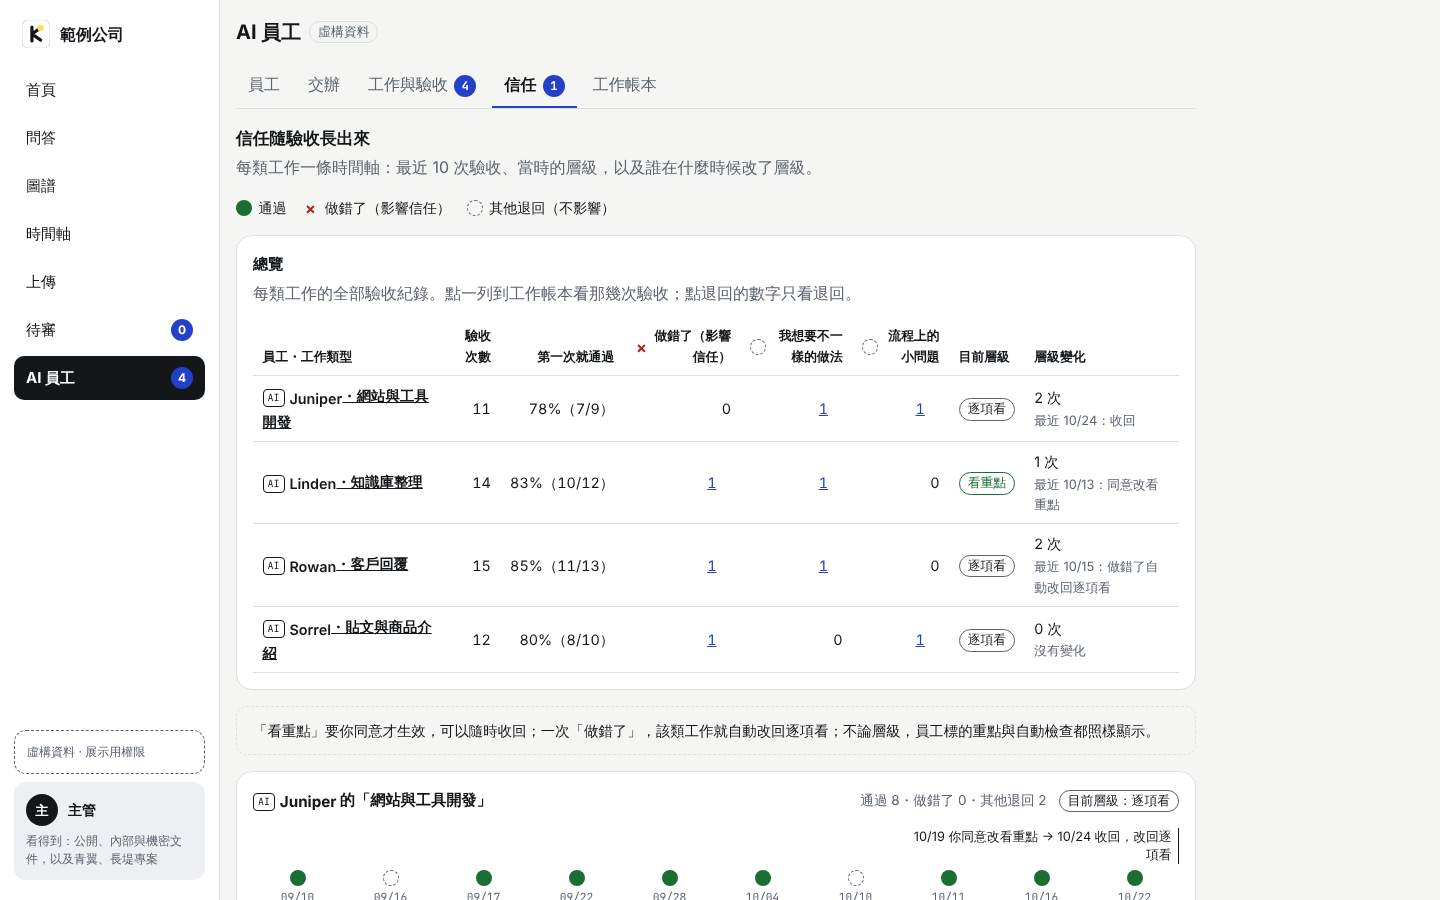
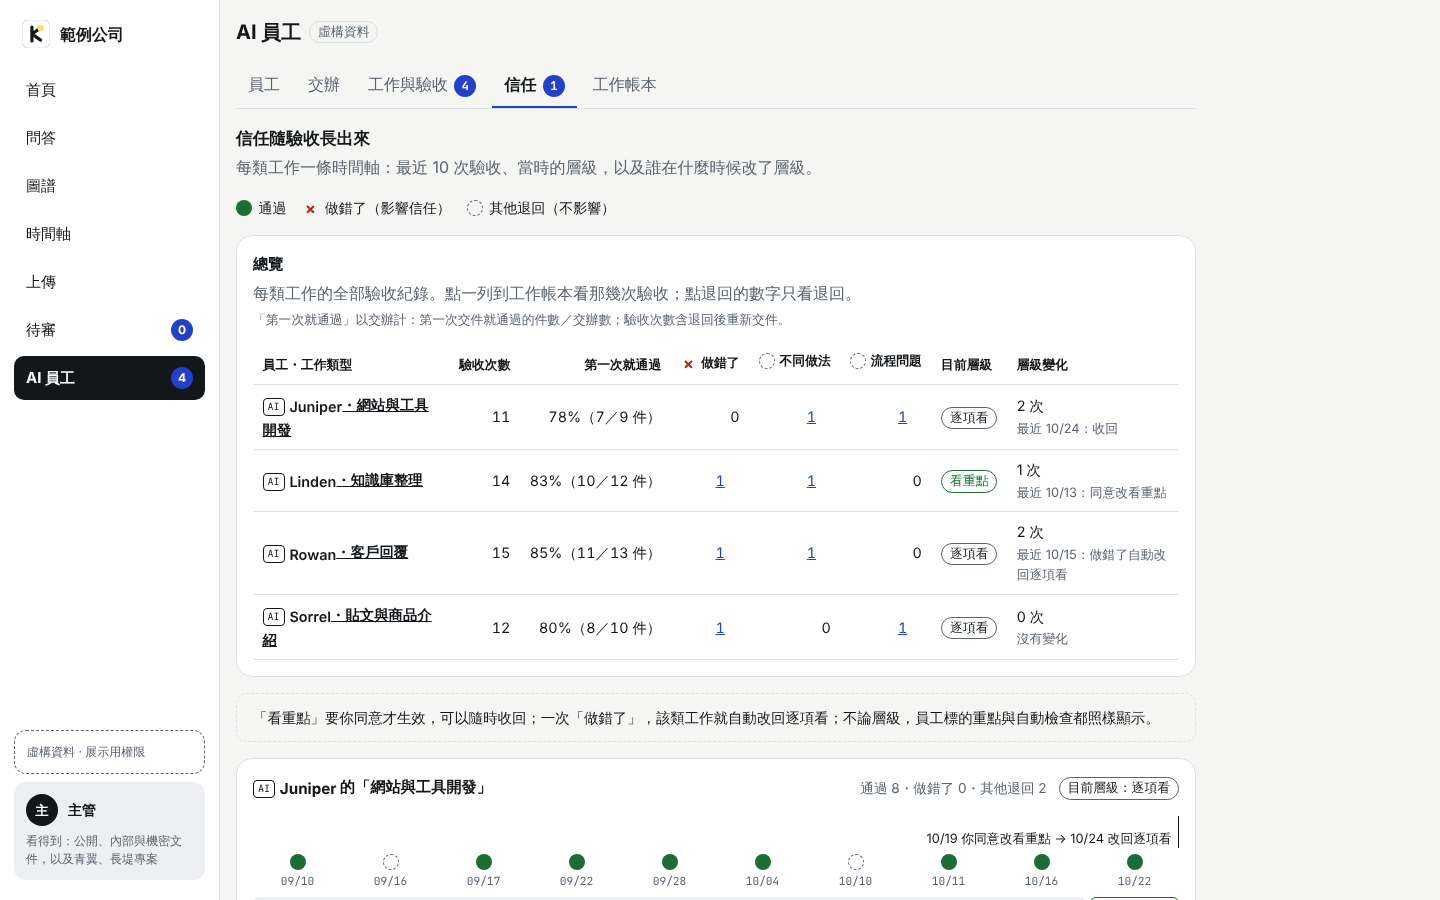
fix: 展示版小修整：信任報表表頭、導覽手機遮擋、依據用詞、層級帶窄格、事件文字（#131）(#132)
- 信任報表：退回原因的表頭改短名（完整名稱是 title 與無障礙名稱）、中文表頭不從詞中間斷開；
  「第一次就通過」寫成「78%（7／9 件）」並加一行說明以交辦計
- 導覽：手機（.app--phone）時對話框固定在下方，目標捲到頂端列與對話框之間（phoneTargetTop）
- 用詞：經過寫「提出時依據」，建議下方寫「目前的依據：最近 N 次」（zh-TW、en）
- 層級帶：手機的一格寬層級帶顯示短名（重點／逐項、Key／All）
- 信任卡的事件：收回改寫「{date} 改回逐項看」，只在事件之間換行
- 重新產生 docs/crew/images/trust.png

Claude-Session: https://claude.ai/code/session_01J8NtUHuh5fvMw7qtXncsTQ

diff --git a/app/src/crew/ui/Tour.tsx b/app/src/crew/ui/Tour.tsx
@@ -7,7 +7,7 @@ import type { LanguageCode } from "../../client/types";
 import type { Database } from "../../db/database";
 import { crewStrings } from "../i18n";
 import type { CrewTarget } from "./sections";
-import { dialogPlace, inView, pickTarget, readTourFlowback, readTourSeen, scrollBlock, TARGET_WAIT_MS, TOUR_STEPS, writeTourSeen } from "./tour-steps";
+import { dialogPlace, inView, phoneTargetTop, pickTarget, readTourFlowback, readTourSeen, scrollBlock, TARGET_WAIT_MS, TOUR_STEPS, writeTourSeen } from "./tour-steps";
 import "./Tour.css";
 
 /** 導覽的狀態：看過了沒（入口小卡或「重新看導覽」）、目前第幾步（沒有在導覽時是 null） */
@@ -97,13 +97,17 @@ export function CrewTour({ db, identity, language, step, go, onNext, onEnd }: To
   const last = step === TOUR_STEPS.length - 1;
   const [target, setTarget] = useState<string | null>(null);
   const [rect, setRect] = useState<Rect | null>(null);
+  // 手機上目標捲到對話框上方時固定放下方（phoneScroll）；null 時依目標的位置決定（dialogPlace）
+  const [place, setPlace] = useState<"top" | "bottom" | null>(null);
   const primary = useRef<HTMLButtonElement>(null);
+  const dialog = useRef<HTMLElement>(null);
 
   // 切畫面：回流那一步先找最近一件已回流的工作（找不到時是「工作與驗收」的預設選取）
   useEffect(() => {
     let alive = true;
     setTarget(null);
     setRect(null);
+    setPlace(null);
     const dest = current.go;
     if (dest.kind === "home") go(dest);
     else if (dest.kind === "crew") go(dest);
@@ -119,9 +123,10 @@ export function CrewTour({ db, identity, language, step, go, onNext, onEnd }: To
       const found = pickTarget(current.targets, (selector) => document.querySelector(selector) !== null, elapsed);
       if (found !== null) {
         window.clearInterval(timer);
-        const el = document.querySelector(found)!;
+        const el = document.querySelector<HTMLElement>(found)!;
         const box = rectOf(el);
-        if (!inView(box, window.innerHeight)) el.scrollIntoView?.({ block: scrollBlock(box, window.innerHeight) });
+        if (phoneScroll(el, dialog.current)) setPlace("bottom");
+        else if (!inView(box, window.innerHeight)) el.scrollIntoView?.({ block: scrollBlock(box, window.innerHeight) });
         setTarget(found);
       } else if (elapsed >= TARGET_WAIT_MS) window.clearInterval(timer);
     }, 100);
@@ -158,7 +163,7 @@ export function CrewTour({ db, identity, language, step, go, onNext, onEnd }: To
     return () => document.removeEventListener("keydown", onKey);
   }, []);
 
-  const place = dialogPlace(rect, typeof window === "undefined" ? 0 : window.innerHeight);
+  const placed = place ?? dialogPlace(rect, typeof window === "undefined" ? 0 : window.innerHeight);
   const titleId = "crew-tour-title";
   const bodyId = "crew-tour-body";
   return (
@@ -171,7 +176,7 @@ export function CrewTour({ db, identity, language, step, go, onNext, onEnd }: To
           style={{ top: rect.top - 6, left: rect.left - 6, width: rect.width + 12, height: rect.height + 12 }}
         />
       )}
-      <section className="crew-tour" role="dialog" aria-modal="false" aria-labelledby={titleId} aria-describedby={bodyId} data-place={place} data-step={current.id}>
+      <section ref={dialog} className="crew-tour" role="dialog" aria-modal="false" aria-labelledby={titleId} aria-describedby={bodyId} data-place={placed} data-step={current.id}>
         <p className="muted crew-tour__progress">
           <span className="visually-hidden">{t.dialogLabel} </span>
           {fill(t.progress, { current: step + 1, total: TOUR_STEPS.length }, language)}
@@ -194,4 +199,23 @@ export function CrewTour({ db, identity, language, step, go, onNext, onEnd }: To
       </section>
     </>
   );
+}
+
+/**
+ * 手機（App 加上 .app--phone）：對話框橫跨整個寬度、放在下方，目標捲到頂端列與對話框之間（phoneTargetTop，#131）。
+ * 固定在畫面上的目標（例如 sticky 的決定列）捲不動，回傳 false，改用原本的位置判斷。
+ */
+function phoneScroll(el: HTMLElement, dialog: HTMLElement | null): boolean {
+  if (dialog === null || document.querySelector(".app--phone") === null) return false;
+  const position = getComputedStyle(el).position;
+  if (position === "sticky" || position === "fixed") return false;
+  const top = document.querySelector(".mobile-topbar")?.getBoundingClientRect().bottom ?? 0;
+  const bottom = document.querySelector(".mobile-tabbar")?.getBoundingClientRect().top ?? window.innerHeight;
+  const want = phoneTargetTop(el.getBoundingClientRect().height, { top, bottom }, dialog.getBoundingClientRect().height);
+  // scroll-margin-top 讓 scrollIntoView 停在 want（頁面本身捲動），之後還原
+  const saved = el.style.scrollMarginTop;
+  el.style.scrollMarginTop = `${want}px`;
+  el.scrollIntoView?.({ block: "start" });
+  el.style.scrollMarginTop = saved;
+  return true;
 }

diff --git a/e2e/crew-trust.spec.ts b/e2e/crew-trust.spec.ts
@@ -98,7 +98,12 @@ test.describe("信任：四種狀態（主管，桌機 1280）", () => {
     const row = trustRow(page, "juniper", "dev");
     await expect(dots(row).getByRole("listitem")).toHaveCount(10);
     await expect(row.getByText(badge(ct.trust.levelItem), { exact: true })).toBeVisible();
-    await expect(row.getByText(crewFill(ct.trust.eventRelax, { date: "10/19" }) + ct.trust.eventSeparator + crewFill(ct.trust.eventRevoke, { date: "10/24" }), { exact: true })).toBeVisible();
+    const event = row.getByText(crewFill(ct.trust.eventRelax, { date: "10/19" }) + ct.trust.eventSeparator + crewFill(ct.trust.eventRevoke, { date: "10/24" }), { exact: true });
+    await expect(event).toBeVisible();
+    // 1280 時每個事件各自一行（不從「改回逐項看」的中間斷開，#131）
+    for (const item of await event.locator(".crew-trust__event-item").all()) {
+      expect(await item.evaluate((el) => Math.round(el.getBoundingClientRect().height / Number.parseFloat(getComputedStyle(el).lineHeight)))).toBe(1);
+    }
     await expect(row.getByText(ct.trust.noteRevoked, { exact: true })).toBeVisible();
     const steps = historySteps(row);
     await expect(steps).toHaveCount(4);
@@ -159,10 +164,15 @@ test("手機 390：沒有水平捲動，時間軸在卡片內", async ({ page })
   const card = (await row.boundingBox())!;
   const list = (await dots(row).boundingBox())!;
   expect(list.x + list.width).toBeLessThanOrEqual(card.x + card.width);
-  // 層級帶的名稱不截斷：兩格以上的換行顯示，一格的只留框（#106）
+  // 層級帶的名稱不截斷：兩格以上的換行顯示，一格的顯示短名（#106、#131）
   for (const band of await page.locator(".crew-trust__band").all()) {
     expect(await band.evaluate((b) => b.scrollWidth <= b.clientWidth && b.scrollHeight <= b.clientHeight)).toBe(true);
   }
+  // Juniper 的「看重點」只有一格：看得到短名，不是空框（#131）
+  const narrow = trustRow(page, "juniper", "dev").locator('.crew-trust__band[data-level="light"][data-span="1"]');
+  await expect(narrow.locator(".crew-trust__band-short")).toBeVisible();
+  await expect(narrow.locator(".crew-trust__band-short")).toHaveText(ct.trust.levelLightShort);
+  await expect(narrow).toContainText(ct.trust.levelLight);
   // 建議的經過與依據在卡片內（#125）
   for (const [employee, workType] of [["juniper", "dev"], ["sorrel", "content"]]) {
     const r = trustRow(page, employee, workType);
@@ -195,15 +205,32 @@ test.describe("總覽報表（主管，桌機 1280）", () => {
       ct.trust.reportColumnRow,
       ct.trust.reportColumnReviews,
       ct.trust.reportColumnFirstPass,
-      ct.trust.reportColumnWrong,
-      ct.trust.reportColumnDifferent,
-      ct.trust.reportColumnProcess,
+      ct.trust.reportHeadWrong,
+      ct.trust.reportHeadDifferent,
+      ct.trust.reportHeadProcess,
       ct.trust.reportColumnLevel,
       ct.trust.reportColumnChanges,
     ];
-    // 退回原因的欄名前有圓點（做錯了是 ×），所以比對包含
+    // 退回原因的欄名前有圓點（做錯了是 ×），所以比對包含；表頭是短名，完整的名稱是無障礙名稱與 title（#131）
     await expect(report(page).locator("thead th")).toContainText(headers);
     await expect(report(page).locator("thead th")).toHaveCount(headers.length);
+    for (const full of [ct.trust.reportColumnWrong, ct.trust.reportColumnDifferent, ct.trust.reportColumnProcess]) {
+      await expect(report(page).getByRole("columnheader", { name: full, exact: true })).toHaveAttribute("title", full);
+    }
+    // 「第一次就通過」以交辦計：說明在報表上看得到，也是表頭的 title（#131）
+    await expect(report(page).locator("xpath=ancestor::section[1]").getByText(ct.trust.reportFirstPassNote, { exact: true })).toBeVisible();
+    await expect(report(page).getByRole("columnheader", { name: ct.trust.reportColumnFirstPass, exact: true })).toHaveAttribute("title", ct.trust.reportFirstPassNote);
+    // 1280 時表頭不超過兩行，員工・工作類型欄不超過兩行（#131）
+    const lines = (el: Locator) =>
+      el.evaluate((node) => {
+        const range = document.createRange();
+        range.selectNodeContents(node);
+        const style = getComputedStyle(node as Element);
+        const line = Number.parseFloat(style.lineHeight) || Number.parseFloat(style.fontSize) * 1.2;
+        return Math.round(range.getBoundingClientRect().height / line);
+      });
+    for (const th of await report(page).locator("thead th").all()) expect(await lines(th)).toBeLessThanOrEqual(2);
+    for (const name of await report(page).locator("tbody th").all()) expect(await lines(name)).toBeLessThanOrEqual(2);
     await expect(reportRows(page)).toHaveCount(4);
     const reportBox = (await report(page).boundingBox())!;
     const firstCard = (await trustRow(page, "rowan", "support").boundingBox())!;

diff --git a/app/src/crew/ui/TrustReport.tsx b/app/src/crew/ui/TrustReport.tsx
@@ -13,10 +13,16 @@ import { firstPassPercent, type LevelChangeKind, type TrustReportRow } from "./t
 
 type T = CrewTexts<"trust">;
 
-const REASONS: { reason: ReturnReason; key: "reportColumnWrong" | "reportColumnDifferent" | "reportColumnProcess"; dot: "wrong" | "neutral" }[] = [
-  { reason: "wrong", key: "reportColumnWrong", dot: "wrong" },
-  { reason: "different_approach", key: "reportColumnDifferent", dot: "neutral" },
-  { reason: "process", key: "reportColumnProcess", dot: "neutral" },
+// 表頭用短名（桌機 1280 時表頭不超過兩行，#131）；完整的名稱是表頭的 title 與無障礙名稱，也是手機卡片的欄名
+const REASONS: {
+  reason: ReturnReason;
+  key: "reportColumnWrong" | "reportColumnDifferent" | "reportColumnProcess";
+  head: "reportHeadWrong" | "reportHeadDifferent" | "reportHeadProcess";
+  dot: "wrong" | "neutral";
+}[] = [
+  { reason: "wrong", key: "reportColumnWrong", head: "reportHeadWrong", dot: "wrong" },
+  { reason: "different_approach", key: "reportColumnDifferent", head: "reportHeadDifferent", dot: "neutral" },
+  { reason: "process", key: "reportColumnProcess", head: "reportHeadProcess", dot: "neutral" },
 ];
 
 const CHANGE_TEXT = {
@@ -40,18 +46,21 @@ export function TrustReport({ rows, language, openLedger }: Props) {
       <div className="crew-trust-report__heading">
         <h3 id="crew-trust-report-title">{t.reportTitle}</h3>
         <p className="muted">{t.reportIntro}</p>
+        <p className="muted crew-trust-report__note">{t.reportFirstPassNote}</p>
       </div>
       <table className="crew-trust-report__table" aria-label={t.reportLabel}>
         <thead>
           <tr>
             <th scope="col">{t.reportColumnRow}</th>
             <th scope="col" className="crew-trust-report__num">{t.reportColumnReviews}</th>
-            <th scope="col" className="crew-trust-report__num">{t.reportColumnFirstPass}</th>
+            <th scope="col" className="crew-trust-report__num" title={t.reportFirstPassNote}>
+              {t.reportColumnFirstPass}
+            </th>
             {REASONS.map((r) => (
-              <th key={r.reason} scope="col" className="crew-trust-report__num">
+              <th key={r.reason} scope="col" className="crew-trust-report__num" title={t[r.key]} aria-label={t[r.key]}>
                 <span className="crew-trust-report__reason">
                   <DotMark dot={r.dot} className="crew-trust__dot" />
-                  {t[r.key]}
+                  {t[r.head]}
                 </span>
               </th>
             ))}

diff --git a/app/src/crew/ui/TrustView.tsx b/app/src/crew/ui/TrustView.tsx
@@ -222,7 +222,15 @@ function Timeline({ timeline, t, language, now }: { timeline: TrustTimeline; t: 
             const place = { "--crew-trust-start": start, "--crew-trust-end": end } as CSSProperties;
             return (
               <li key={group.column} className="crew-trust__event" data-align={atEnd ? "end" : "start"} style={place}>
-                {group.items.map((e) => fill(t[EVENT_TEXT[e.kind]], { date: date(e.at) })).join(t.eventSeparator)}
+                {/* li 是 flex：事件與箭頭包在同一段文字裡，箭頭前後的空白才不會被去掉 */}
+                <span>
+                  {group.items.map((e, j) => (
+                    <Fragment key={j}>
+                      {j > 0 && t.eventSeparator}
+                      <span className="crew-trust__event-item">{fill(t[EVENT_TEXT[e.kind]], { date: date(e.at) })}</span>
+                    </Fragment>
+                  ))}
+                </span>
               </li>
             );
           })}
@@ -253,12 +261,16 @@ function Timeline({ timeline, t, language, now }: { timeline: TrustTimeline; t: 
       <div className="crew-trust__grid crew-trust__bands">
         {bands(cells.map((c) => c.level)).map((b, i) => (
           <span key={i} className="crew-trust__band" data-level={b.level} data-span={b.span} style={{ gridColumn: `span ${b.span}` }}>
-            {levelText(b.level, t)}
+            <span className="crew-trust__band-full">{levelText(b.level, t)}</span>
+            {/* 手機的一格寬層級帶改顯示短名（#131）；螢幕閱讀器讀完整的名稱 */}
+            <span className="crew-trust__band-short" aria-hidden="true">
+              {b.level === "light" ? t.levelLightShort : t.levelItemShort}
+            </span>
           </span>
         ))}
         {empty > 0 && (
           <span className="crew-trust__band" data-level="none" data-span={empty} style={{ gridColumn: `span ${empty}` }}>
-            {t.bandEmpty}
+            <span className="crew-trust__band-full">{t.bandEmpty}</span>
           </span>
         )}
       </div>

diff --git a/app/src/crew/ui/TrustView.css b/app/src/crew/ui/TrustView.css
@@ -108,6 +108,12 @@
   overflow-wrap: anywhere;
 }
 
+/* 同一欄的多個事件：先在事件之間（箭頭後）換行，不從一個事件的中間斷開；比整列還寬時才在事件內換行（#131） */
+.crew-trust__event-item {
+  display: inline-block;
+  max-width: 100%;
+}
+
 .crew-trust__event[data-align="end"] {
   justify-content: flex-end;
   padding-left: 0;
@@ -146,6 +152,11 @@
   line-height: 1.2;
   /* 窄的層級帶（英文、手機）在字詞之間換行，不截斷（#106） */
   overflow-wrap: break-word;
+}
+
+/* 短名只在手機的一格寬層級帶顯示（下方的 @media） */
+.crew-trust__band-short {
+  display: none;
 }
 
 .crew-trust__band[data-level="item"] {
@@ -267,10 +278,25 @@
     font-size: 0.7rem;
   }
 
-  /* 只有一格寬的層級帶放不下任何一種語言的名稱：只留框與底色，文字仍在（螢幕閱讀器照樣讀到），
-     層級由「目前層級」與上方的事件說明（#106） */
+  /* 只有一格寬的層級帶放不下完整的名稱：改顯示短名（例如「重點」），完整的名稱只給螢幕閱讀器（#106、#131） */
   .crew-trust__band[data-span="1"] {
-    font-size: 0;
+    position: relative;
+    justify-content: center;
+    padding: 0.15rem 0;
+  }
+
+  .crew-trust__band[data-span="1"] .crew-trust__band-full {
+    position: absolute;
+    width: 1px;
+    height: 1px;
+    overflow: hidden;
+    clip-path: inset(50%);
+    white-space: nowrap;
+  }
+
+  .crew-trust__band[data-span="1"] .crew-trust__band-short {
+    display: inline;
+    white-space: nowrap;
   }
 }
 
@@ -341,8 +367,15 @@
   white-space: nowrap;
 }
 
+/* 表頭（#131）：中文的詞不從中間斷開（「驗收次數」曾斷成「驗收次／數」），英文照樣在空白處換行 */
+.crew-trust-report__table thead th,
 .crew-trust-report__table thead .crew-trust-report__num {
   white-space: normal;
+  word-break: keep-all;
+}
+
+.crew-trust-report__note {
+  font-size: 0.8rem;
 }
 
 .crew-trust-report__name button.link {

diff --git a/e2e/support/crew.ts b/e2e/support/crew.ts
@@ -163,6 +163,28 @@ async function expectSpotOn(page: Page, target: string): Promise<void> {
   expect(box.x + box.width).toBeLessThanOrEqual(viewport.width);
   expect(box.y + box.height).toBeLessThanOrEqual(viewport.height);
   expect(await page.evaluate(() => document.documentElement.scrollWidth <= window.innerWidth)).toBe(true);
+  if (viewport.width <= 600) await expectTargetMostlyVisible(page, target);
+}
+
+// 手機（#131）：標出的區塊不被對話框、頂端列與底部分頁列蓋住的部分，至少是「放得下的高度」的九成
+// （放得下的高度：目標的高度與頂端列到分頁列之間扣掉對話框的空間，取較小者）
+async function expectTargetMostlyVisible(page: Page, target: string): Promise<void> {
+  await expect
+    .poll(() =>
+      page.evaluate((selector) => {
+        const box = (el: Element | null) => (el === null ? null : el.getBoundingClientRect());
+        const t = box(document.querySelector(selector))!;
+        const d = box(document.querySelector(".crew-tour"))!;
+        const top = box(document.querySelector(".mobile-topbar"))?.bottom ?? 0;
+        const bottom = box(document.querySelector(".mobile-tabbar"))?.top ?? window.innerHeight;
+        const span = (a: number, b: number) => Math.max(0, b - a);
+        const shown = span(Math.max(t.top, top), Math.min(t.bottom, bottom));
+        const covered = span(Math.max(t.top, top, d.top), Math.min(t.bottom, bottom, d.bottom));
+        const room = Math.min(t.height, bottom - top - d.height);
+        return (shown - covered) / room >= 0.9;
+      }, target),
+    )
+    .toBe(true);
 }
 
 // 從首頁的入口開始走完 5 步；keyboard 時以 Enter 按「下一步」（開始時焦點在「下一步」）。結束後回到首頁不必要：停在最後一步的畫面

diff --git a/app/src/crew/ui/tour-steps.test.ts b/app/src/crew/ui/tour-steps.test.ts
@@ -10,6 +10,8 @@ import { readWorkList } from "./review";
 import {
   dialogPlace,
   inView,
+  phoneTargetTop,
+  PHONE_GAP,
   pickTarget,
   PRIMARY_WAIT_MS,
   readTourFlowback,
@@ -101,6 +103,28 @@ describe("對話框的位置與捲動", () => {
     expect(inView({ top: 10, height: 200 }, 800)).toBe(true);
     expect(inView({ top: 700, height: 200 }, 800)).toBe(false);
     expect(inView({ top: -5, height: 200 }, 800)).toBe(false);
+  });
+});
+
+describe("phoneTargetTop：手機的目標捲到對話框上方（#131）", () => {
+  // 頂端列到 91、底部分頁列從 772 開始、對話框高 191：可用空間是 103～557（454px）
+  const frame = { top: 91, bottom: 772 };
+  const space = { top: 91 + PHONE_GAP, bottom: 772 - PHONE_GAP - 191 - PHONE_GAP };
+
+  it("放得下時在對話框上方的空間置中，整個不被對話框蓋住", () => {
+    const top = phoneTargetTop(300, frame, 191);
+    expect(top).toBe(space.top + Math.floor((space.bottom - space.top - 300) / 2));
+    expect(top).toBeGreaterThanOrEqual(space.top);
+    expect(top + 300).toBeLessThanOrEqual(space.bottom);
+  });
+
+  it("比空間高時對齊空間的上緣：上緣不被頂端列蓋住，空間內全是目標", () => {
+    expect(phoneTargetTop(486, frame, 191)).toBe(space.top);
+    expect(phoneTargetTop(space.bottom - space.top, frame, 191)).toBe(space.top);
+  });
+
+  it("沒有頂端列與分頁列時以整個畫面計算", () => {
+    expect(phoneTargetTop(100, { top: 0, bottom: 800 }, 200)).toBe(PHONE_GAP + Math.floor((800 - 3 * PHONE_GAP - 200 - 100) / 2));
   });
 });
 

diff --git a/app/src/crew/ui/tour-steps.ts b/app/src/crew/ui/tour-steps.ts
@@ -80,6 +80,25 @@ export const dialogPlace = (target: Box | null, viewportHeight: number): "top" |
 /** 目標要捲動時的位置：放得下就置中，比畫面高就對齊上緣 */
 export const scrollBlock = (target: Box, viewportHeight: number): ScrollLogicalPosition => (target.height > viewportHeight * 0.6 ? "start" : "center");
 
+/** 手機（.app--phone）可用的範圍：頂端列的下緣到底部分頁列的上緣（視窗座標） */
+export interface Frame {
+  top: number;
+  bottom: number;
+}
+
+/** 手機的對話框與底部分頁列、對話框與目標之間的間隔（px）；對話框放下方時離畫面底部 = 分頁列 72px＋此值（Tour.css） */
+export const PHONE_GAP = 12;
+
+/**
+ * 手機：對話框橫跨整個寬度，所以放在下方，目標捲到對話框上方的空間（#131）。
+ * 回傳目標上緣應在的位置（視窗座標）：放得下就在空間內置中，比空間高就對齊空間的上緣（至少上半部可見）。
+ */
+export function phoneTargetTop(targetHeight: number, frame: Frame, dialogHeight: number, gap = PHONE_GAP): number {
+  const top = frame.top + gap;
+  const room = frame.bottom - gap - dialogHeight - gap - top;
+  return targetHeight >= room ? top : top + Math.floor((room - targetHeight) / 2);
+}
+
 /** 目標整個在畫面上（不必捲動） */
 export const inView = (target: Box, viewportHeight: number): boolean => target.top >= 0 && target.top + target.height <= viewportHeight;
 
